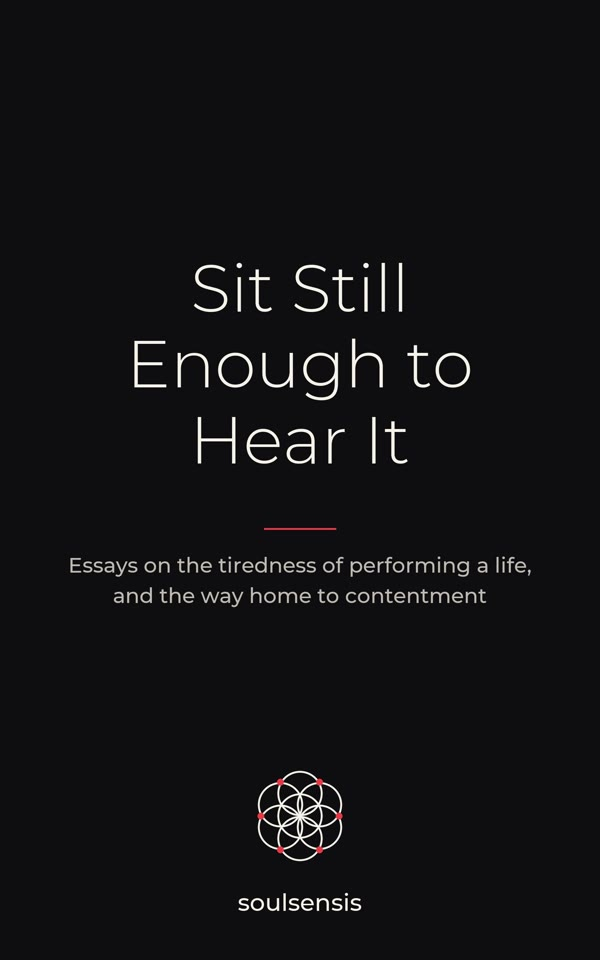
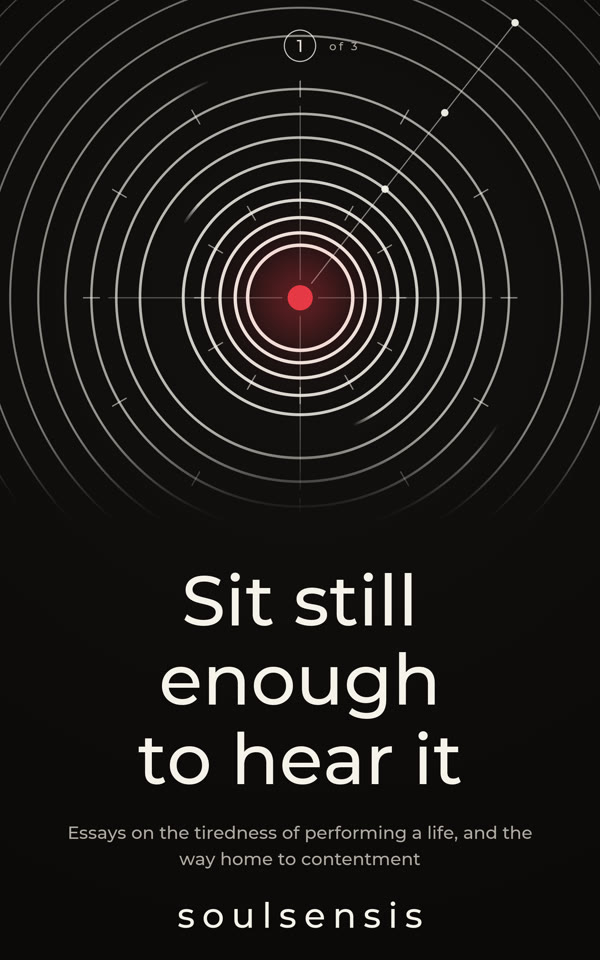
Site: rebuilt

diff --git a/index.html b/index.html
@@ -195,7 +195,7 @@ h2 { margin: 0; font-weight: 200; font-size: clamp(32px, 5vw, 60px); line-height
 .cover { position: relative; display: grid; place-items: center; aspect-ratio: 1; width: 100%; max-width: 520px; margin: 0 auto; perspective: 1500px; isolation: isolate; }
 .cover svg { position: absolute; inset: -8%; width: 116%; height: 116%; z-index: 0; transform: translateZ(0); }
 .cover .floor { position: absolute; z-index: 1; left: 50%; top: 74%; width: 46%; height: 9%; transform: translateX(-50%); border-radius: 50%; background: radial-gradient(closest-side, rgba(0,0,0,.95), rgba(0,0,0,.55) 50%, transparent); filter: blur(6px); }
-.book3d { --tx: -28deg; --ty: -7deg; --d: 20px; position: relative; z-index: 2; -webkit-transform-style: preserve-3d; width: 41%; aspect-ratio: 2 / 3; transform-style: preserve-3d; transform: rotateY(var(--tx)) rotateX(var(--ty)); transition: transform .9s cubic-bezier(.2,.8,.2,1); animation: float 7s ease-in-out infinite; }
+.book3d { --tx: -28deg; --ty: -7deg; --d: 20px; position: relative; z-index: 2; -webkit-transform-style: preserve-3d; width: 41%; aspect-ratio: 5 / 8; transform-style: preserve-3d; transform: rotateY(var(--tx)) rotateX(var(--ty)); transition: transform .9s cubic-bezier(.2,.8,.2,1); animation: float 7s ease-in-out infinite; }
 @keyframes float { 0%,100% { translate: 0 0; } 50% { translate: 0 -7px; } }
 .cover:hover .book3d { --tx: -14deg; --ty: -5deg; }
 .book3d.live { transition: transform .35s cubic-bezier(.2,.8,.2,1); animation-play-state: paused; }
@@ -303,7 +303,7 @@ footer .help { line-height: 44px; }
     <div class="cover">
       <svg viewBox="-340 -340 680 680" aria-hidden="true"><g class="draw" id="flower" fill="none" stroke="#F5F2EA" stroke-width="1.2" opacity=".6"></g></svg>
       <div class="floor" aria-hidden="true"></div>
-      <div class="book3d" id="book3d"><span class="back" aria-hidden="true"></span><span class="pages" aria-hidden="true"></span><span class="top" aria-hidden="true"></span><span class="spine" aria-hidden="true"></span><img src="book-cover.jpg" width="600" height="900" loading="lazy" decoding="async" alt="The cover of Sit Still Enough to Hear It, by soulsensis: black, the title in warm ink, a small flower of life beneath it"><span class="gloss" aria-hidden="true"></span></div>
+      <div class="book3d" id="book3d"><span class="back" aria-hidden="true"></span><span class="pages" aria-hidden="true"></span><span class="top" aria-hidden="true"></span><span class="spine" aria-hidden="true"></span><img src="book-cover.jpg" width="600" height="960" loading="lazy" decoding="async" alt="The cover of Sit Still Enough to Hear It, by soulsensis: black, rings drawn around a red centre, the title in warm ink"><span class="gloss" aria-hidden="true"></span></div>
     </div>
     <div class="stack">
       <p class="label rise" style="margin:0">The book</p>

diff --git a/essays/the-actuality-of-the-soul/index.html b/essays/the-actuality-of-the-soul/index.html
@@ -44,7 +44,7 @@
 </div></header>
 <div class="g"><div class="col">
 <div class="prose opening"><p>Much of what I read in self-development, spirituality and metaphysics rests on one quiet assumption: that something is fundamentally wrong with you. That you are broken and need constant repair. I lived inside that assumption for years.</p></div>
-<aside class="inbook" aria-label="Finish it in the book"><img src="/book-cover.jpg" width="600" height="900" alt="The cover of Sit Still Enough to Hear It" loading="lazy">
+<aside class="inbook" aria-label="Finish it in the book"><img src="/book-cover.jpg" width="600" height="960" alt="The cover of Sit Still Enough to Hear It" loading="lazy">
 <div><h2>The rest of this essay is in chapter 6 of the book.</h2><p>Sit Still Enough to Hear It: twenty essays, in six chapters. The book is being finished. Join the letters to hear the day it&#x27;s out.</p>
 <div class="acts"><a class="btn primary" href="#letters">Get the first chapter free</a><a class="btn quiet" href="/book.html">About the book</a></div></div></aside>
 <section class="letters inline" id="letters" aria-labelledby="letters-h">

diff --git a/essays/you-do-not-get-what-you-want/index.html b/essays/you-do-not-get-what-you-want/index.html
@@ -44,7 +44,7 @@
 </div></header>
 <div class="g"><div class="col">
 <div class="prose opening"><p>There are mornings I wake under a weight I can&#x27;t name and can&#x27;t shake. It sits underneath everything, telling me something in my life is off. And strangely, what makes it worse is that I know I am the one who made it this way.</p></div>
-<aside class="inbook" aria-label="Finish it in the book"><img src="/book-cover.jpg" width="600" height="900" alt="The cover of Sit Still Enough to Hear It" loading="lazy">
+<aside class="inbook" aria-label="Finish it in the book"><img src="/book-cover.jpg" width="600" height="960" alt="The cover of Sit Still Enough to Hear It" loading="lazy">
 <div><h2>The rest of this essay is in chapter 1 of the book.</h2><p>Sit Still Enough to Hear It: twenty essays, in six chapters. The book is being finished. Join the letters to hear the day it&#x27;s out.</p>
 <div class="acts"><a class="btn primary" href="#letters">Get the first chapter free</a><a class="btn quiet" href="/book.html">About the book</a></div></div></aside>
 <section class="letters inline" id="letters" aria-labelledby="letters-h">

diff --git a/essays/the-lighthouse-does-not-try-to-shine/index.html b/essays/the-lighthouse-does-not-try-to-shine/index.html
@@ -44,7 +44,7 @@
 </div></header>
 <div class="g"><div class="col">
 <div class="prose opening"><p>For years I had more ideas than I could write down and not the nerve to put a single one into the world. I called it not being ready yet. It was something else: the particular tiredness that comes from living a life that is not yours.</p></div>
-<aside class="inbook" aria-label="Finish it in the book"><img src="/book-cover.jpg" width="600" height="900" alt="The cover of Sit Still Enough to Hear It" loading="lazy">
+<aside class="inbook" aria-label="Finish it in the book"><img src="/book-cover.jpg" width="600" height="960" alt="The cover of Sit Still Enough to Hear It" loading="lazy">
 <div><h2>The rest of this essay is in chapter 5 of the book.</h2><p>Sit Still Enough to Hear It: twenty essays, in six chapters. The book is being finished. Join the letters to hear the day it&#x27;s out.</p>
 <div class="acts"><a class="btn primary" href="#letters">Get the first chapter free</a><a class="btn quiet" href="/book.html">About the book</a></div></div></aside>
 <section class="letters inline" id="letters" aria-labelledby="letters-h">

diff --git a/essays/here-for-a-season/index.html b/essays/here-for-a-season/index.html
@@ -44,7 +44,7 @@
 </div></header>
 <div class="g"><div class="col">
 <div class="prose opening"><p>A friend once told me that some people you meet in life are here for a season only. I never expected it to apply to the friend who said it. Once I understood that, I came to see every friendship as possibly temporary.</p></div>
-<aside class="inbook" aria-label="Finish it in the book"><img src="/book-cover.jpg" width="600" height="900" alt="The cover of Sit Still Enough to Hear It" loading="lazy">
+<aside class="inbook" aria-label="Finish it in the book"><img src="/book-cover.jpg" width="600" height="960" alt="The cover of Sit Still Enough to Hear It" loading="lazy">
 <div><h2>The rest of this essay is in chapter 2 of the book.</h2><p>Sit Still Enough to Hear It: twenty essays, in six chapters. The book is being finished. Join the letters to hear the day it&#x27;s out.</p>
 <div class="acts"><a class="btn primary" href="#letters">Get the first chapter free</a><a class="btn quiet" href="/book.html">About the book</a></div></div></aside>
 <section class="letters inline" id="letters" aria-labelledby="letters-h">

diff --git a/essays/the-currency-of-attention/index.html b/essays/the-currency-of-attention/index.html
@@ -44,7 +44,7 @@
 </div></header>
 <div class="g"><div class="col">
 <div class="prose opening"><p>The grass is not greener on the other side. It is greener where you water it, and attention is the water: your awareness, your deliberate thinking, poured towards the parts of life that matter to you.</p></div>
-<aside class="inbook" aria-label="Finish it in the book"><img src="/book-cover.jpg" width="600" height="900" alt="The cover of Sit Still Enough to Hear It" loading="lazy">
+<aside class="inbook" aria-label="Finish it in the book"><img src="/book-cover.jpg" width="600" height="960" alt="The cover of Sit Still Enough to Hear It" loading="lazy">
 <div><h2>The rest of this essay is in chapter 3 of the book.</h2><p>Sit Still Enough to Hear It: twenty essays, in six chapters. The book is being finished. Join the letters to hear the day it&#x27;s out.</p>
 <div class="acts"><a class="btn primary" href="#letters">Get the first chapter free</a><a class="btn quiet" href="/book.html">About the book</a></div></div></aside>
 <section class="letters inline" id="letters" aria-labelledby="letters-h">

diff --git a/essays/framing/index.html b/essays/framing/index.html
@@ -44,7 +44,7 @@
 </div></header>
 <div class="g"><div class="col">
 <div class="prose opening"><p>We label a job loss as &quot;bad&quot; before we have even left the building. The word arrives that fast, and once it is there, we stop looking at what is actually in front of us.</p></div>
-<aside class="inbook" aria-label="Finish it in the book"><img src="/book-cover.jpg" width="600" height="900" alt="The cover of Sit Still Enough to Hear It" loading="lazy">
+<aside class="inbook" aria-label="Finish it in the book"><img src="/book-cover.jpg" width="600" height="960" alt="The cover of Sit Still Enough to Hear It" loading="lazy">
 <div><h2>The rest of this essay is in chapter 3 of the book.</h2><p>Sit Still Enough to Hear It: twenty essays, in six chapters. The book is being finished. Join the letters to hear the day it&#x27;s out.</p>
 <div class="acts"><a class="btn primary" href="#letters">Get the first chapter free</a><a class="btn quiet" href="/book.html">About the book</a></div></div></aside>
 <section class="letters inline" id="letters" aria-labelledby="letters-h">

diff --git a/essays/the-receptiveness-i-was-waiting-for/index.html b/essays/the-receptiveness-i-was-waiting-for/index.html
@@ -44,7 +44,7 @@
 </div></header>
 <div class="g"><div class="col">
 <div class="prose opening"><p>There is a particular kind of tiredness that lives at the edge of a life that has not yet committed to itself. It is not the tiredness of the body. It is the tiredness of waiting.</p></div>
-<aside class="inbook" aria-label="Finish it in the book"><img src="/book-cover.jpg" width="600" height="900" alt="The cover of Sit Still Enough to Hear It" loading="lazy">
+<aside class="inbook" aria-label="Finish it in the book"><img src="/book-cover.jpg" width="600" height="960" alt="The cover of Sit Still Enough to Hear It" loading="lazy">
 <div><h2>The rest of this essay is in chapter 1 of the book.</h2><p>Sit Still Enough to Hear It: twenty essays, in six chapters. The book is being finished. Join the letters to hear the day it&#x27;s out.</p>
 <div class="acts"><a class="btn primary" href="#letters">Get the first chapter free</a><a class="btn quiet" href="/book.html">About the book</a></div></div></aside>
 <section class="letters inline" id="letters" aria-labelledby="letters-h">

diff --git a/essays/blame-and-responsibility/index.html b/essays/blame-and-responsibility/index.html
@@ -44,7 +44,7 @@
 </div></header>
 <div class="g"><div class="col">
 <div class="prose opening"><p>Self-blame is destruction dressed as accountability. The difference between self-blame and responsibility is radical. One dismantles you. The other directs you.</p></div>
-<aside class="inbook" aria-label="Finish it in the book"><img src="/book-cover.jpg" width="600" height="900" alt="The cover of Sit Still Enough to Hear It" loading="lazy">
+<aside class="inbook" aria-label="Finish it in the book"><img src="/book-cover.jpg" width="600" height="960" alt="The cover of Sit Still Enough to Hear It" loading="lazy">
 <div><h2>The rest of this essay is in chapter 3 of the book.</h2><p>Sit Still Enough to Hear It: twenty essays, in six chapters. The book is being finished. Join the letters to hear the day it&#x27;s out.</p>
 <div class="acts"><a class="btn primary" href="#letters">Get the first chapter free</a><a class="btn quiet" href="/book.html">About the book</a></div></div></aside>
 <section class="letters inline" id="letters" aria-labelledby="letters-h">

diff --git a/essays/the-past-was-great/index.html b/essays/the-past-was-great/index.html
@@ -44,7 +44,7 @@
 </div></header>
 <div class="g"><div class="col">
 <div class="prose opening"><p>I used to say it all the time: those were the best years. I said it like a fact. And for the rest of that day, nothing in front of me stood a chance.</p></div>
-<aside class="inbook" aria-label="Finish it in the book"><img src="/book-cover.jpg" width="600" height="900" alt="The cover of Sit Still Enough to Hear It" loading="lazy">
+<aside class="inbook" aria-label="Finish it in the book"><img src="/book-cover.jpg" width="600" height="960" alt="The cover of Sit Still Enough to Hear It" loading="lazy">
 <div><h2>The rest of this essay is in chapter 2 of the book.</h2><p>Sit Still Enough to Hear It: twenty essays, in six chapters. The book is being finished. Join the letters to hear the day it&#x27;s out.</p>
 <div class="acts"><a class="btn primary" href="#letters">Get the first chapter free</a><a class="btn quiet" href="/book.html">About the book</a></div></div></aside>
 <section class="letters inline" id="letters" aria-labelledby="letters-h">

diff --git a/essays.html b/essays.html
@@ -99,7 +99,7 @@
 <a class="row" href="/essays/the-walk-the-alignment/"><div><b>What does real contentment and life satisfaction look like?</b><p>Living it: presence, meaning found by acting in the world, and a soul that was never broken.</p></div><span class="tag">Chapter 6</span></a>
 </div></div></section>
 <section class="bookband g" aria-labelledby="bk"><div class="wrap">
-<img src="/book-cover.jpg" width="600" height="900" alt="The cover of Sit Still Enough to Hear It, by soulsensis" loading="lazy">
+<img src="/book-cover.jpg" width="600" height="960" alt="The cover of Sit Still Enough to Hear It, by soulsensis" loading="lazy">
 <div><p class="label">The book</p><h2 id="bk">Sit Still Enough to Hear It</h2><p>Every essay above, finished and in order: twenty essays in six chapters. The book is being finished. Join the letters to hear the day it&#x27;s out.</p>
 <div class="acts"><a class="btn primary" href="#letters">Get the first chapter free</a><a class="btn quiet" href="/book.html">About the book</a></div></div>
 </div></section>

diff --git a/essays/perception-is-key/index.html b/essays/perception-is-key/index.html
@@ -44,7 +44,7 @@
 </div></header>
 <div class="g"><div class="col">
 <div class="prose opening"><p>I turned thirty recently. Like most people hitting that milestone, I scrolled through LinkedIn and Instagram and felt the dread wash over me.</p></div>
-<aside class="inbook" aria-label="Finish it in the book"><img src="/book-cover.jpg" width="600" height="900" alt="The cover of Sit Still Enough to Hear It" loading="lazy">
+<aside class="inbook" aria-label="Finish it in the book"><img src="/book-cover.jpg" width="600" height="960" alt="The cover of Sit Still Enough to Hear It" loading="lazy">
 <div><h2>The rest of this essay is in chapter 1 of the book.</h2><p>Sit Still Enough to Hear It: twenty essays, in six chapters. The book is being finished. Join the letters to hear the day it&#x27;s out.</p>
 <div class="acts"><a class="btn primary" href="#letters">Get the first chapter free</a><a class="btn quiet" href="/book.html">About the book</a></div></div></aside>
 <section class="letters inline" id="letters" aria-labelledby="letters-h">
